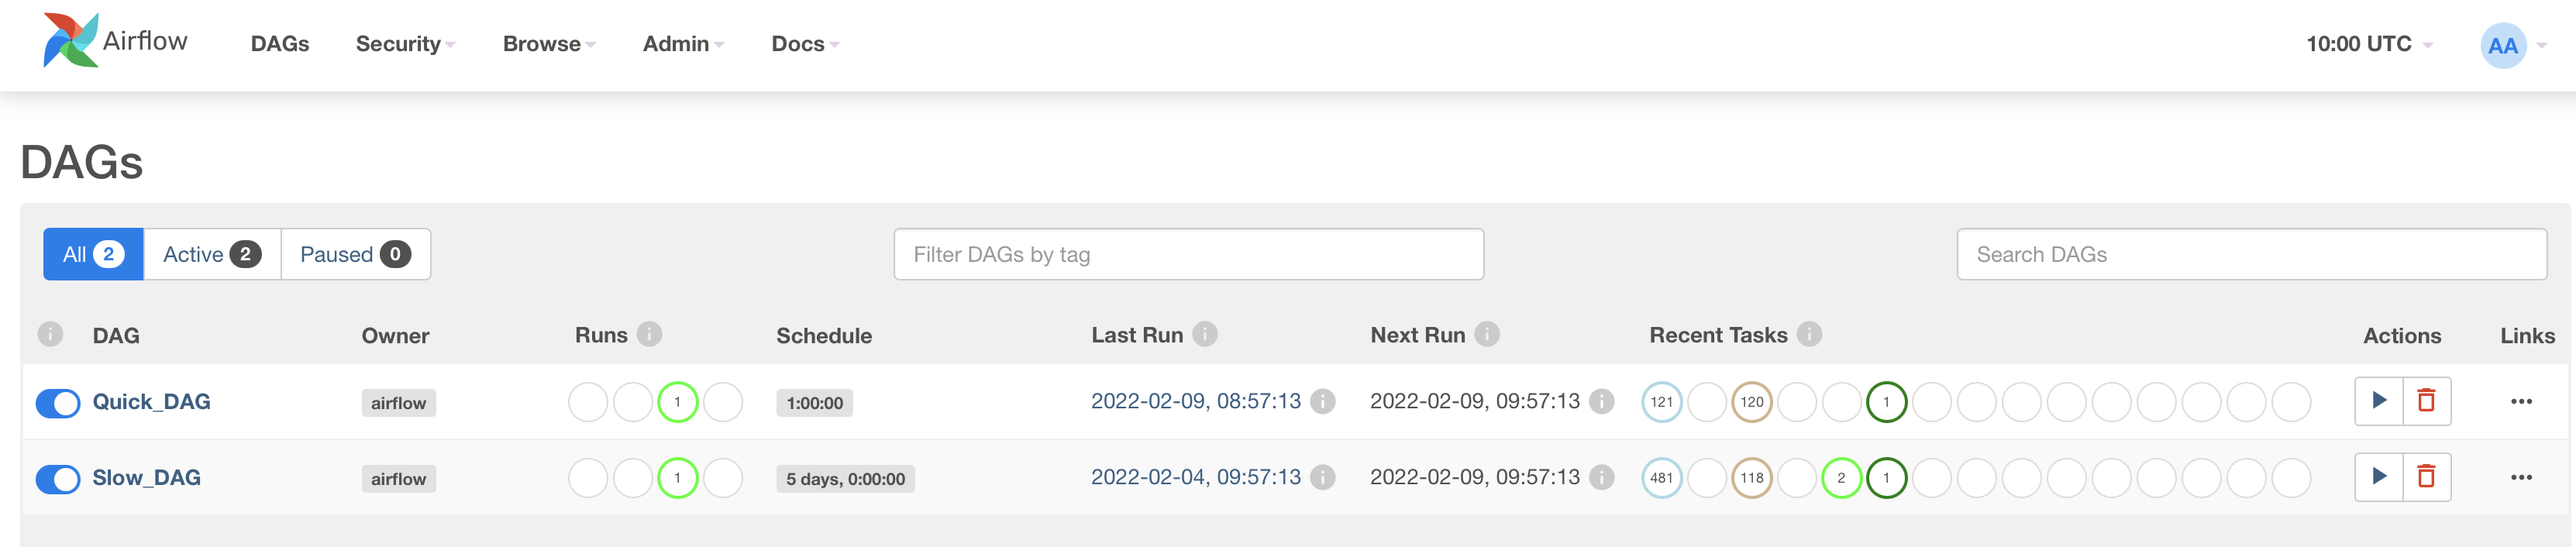
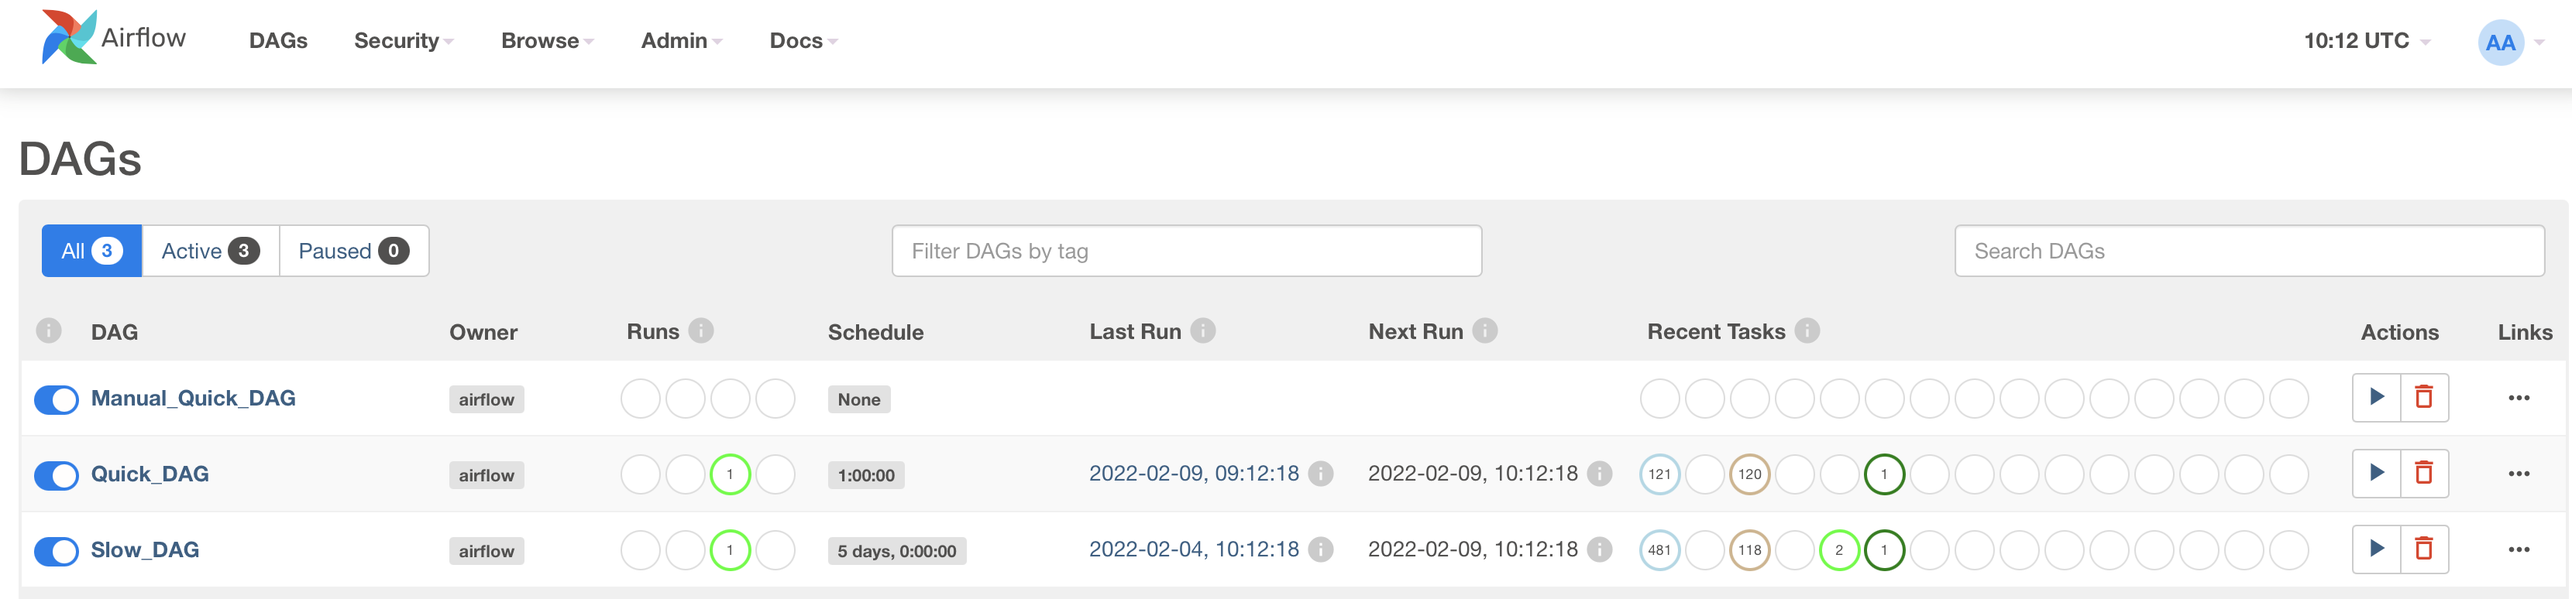
update README and image

diff --git a/README.md b/README.md
@@ -1,5 +1,13 @@
+## How to run
+
+```
+docker-compose build
+docker-compose up
+```
+
+
 ## Setup
-Have 2 DAGs: 
+Have 3 DAGs: 
 1. ~240 Tasks, executes every hour, runs for about 45-50 minutes total
 2. ~600 Tasks, executes every 5 days, runs for days
 3. ~10 Tasks, executes on trigger, runs for 10-50 minutes
